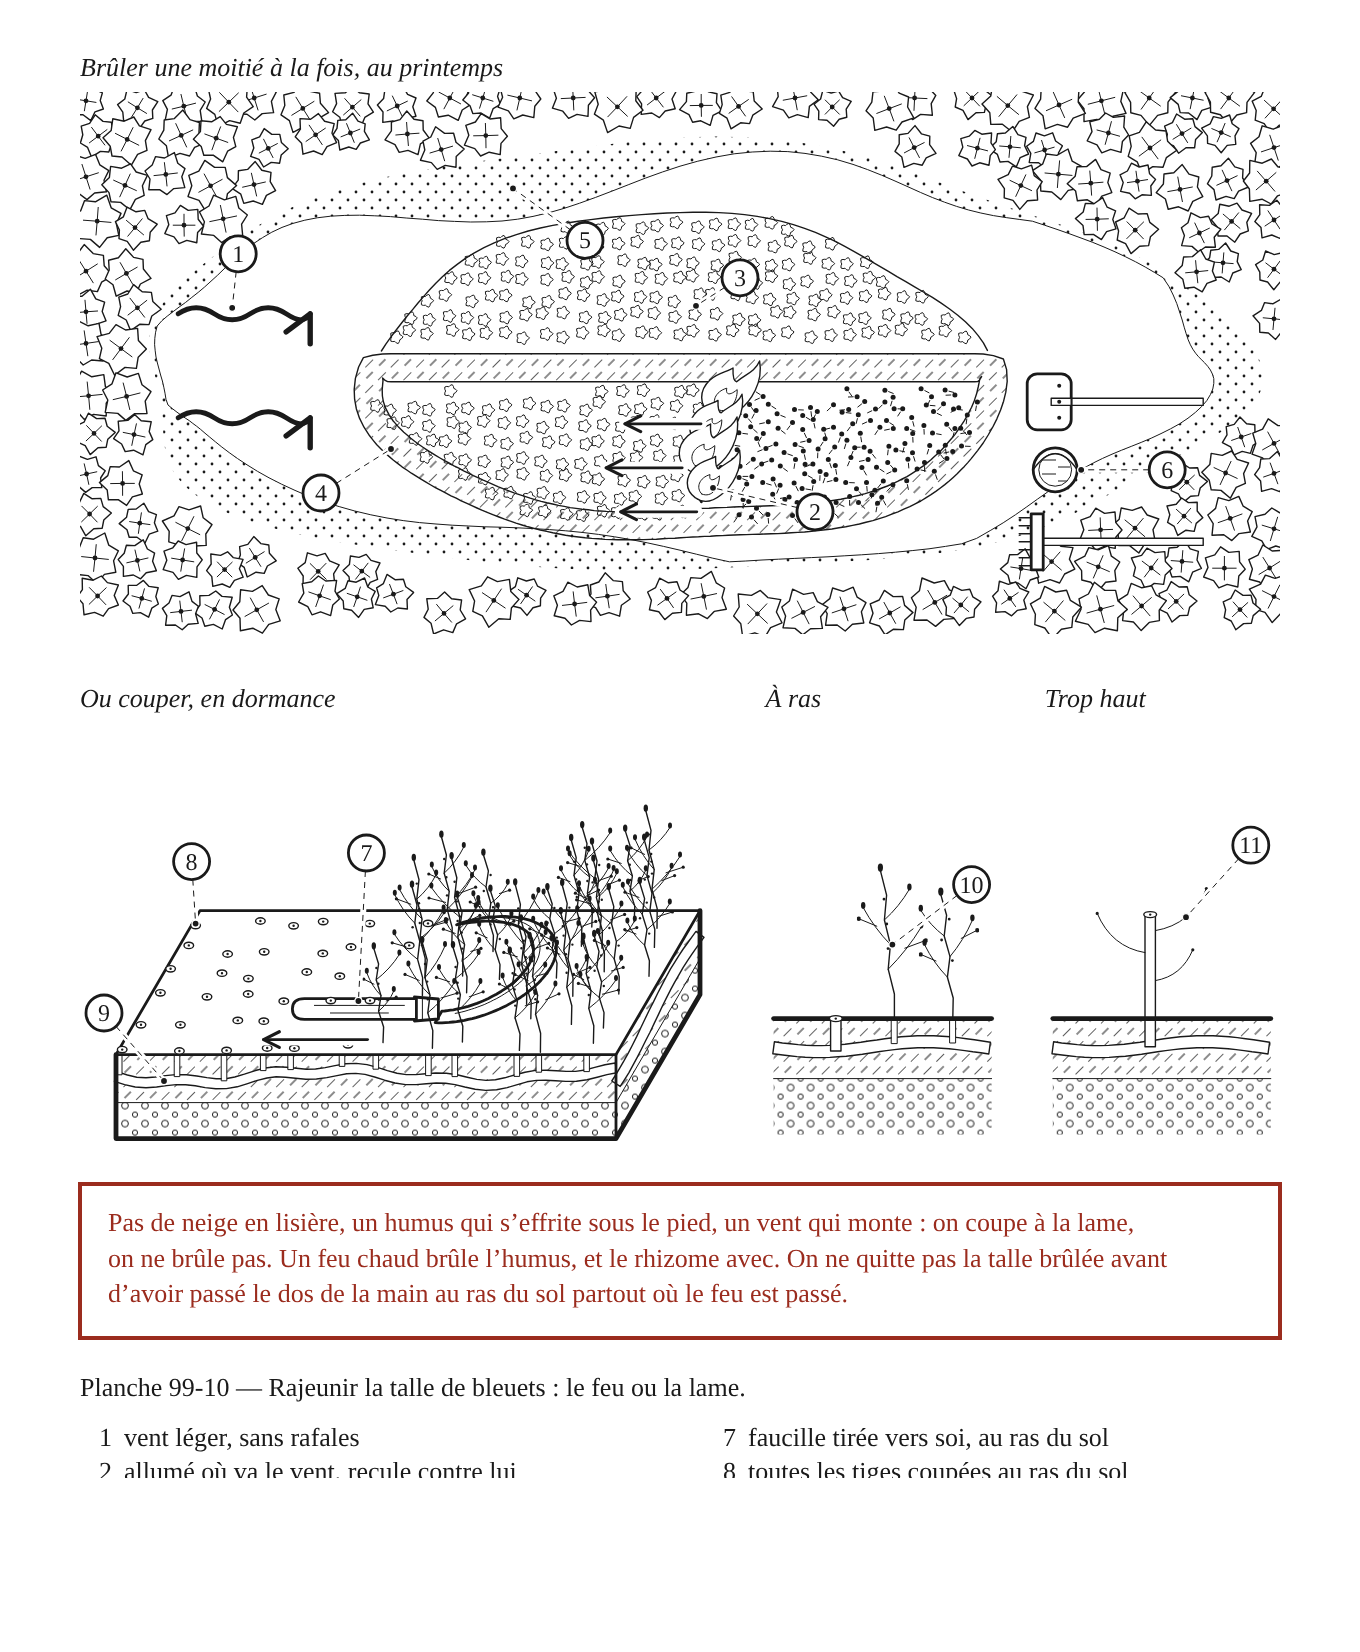
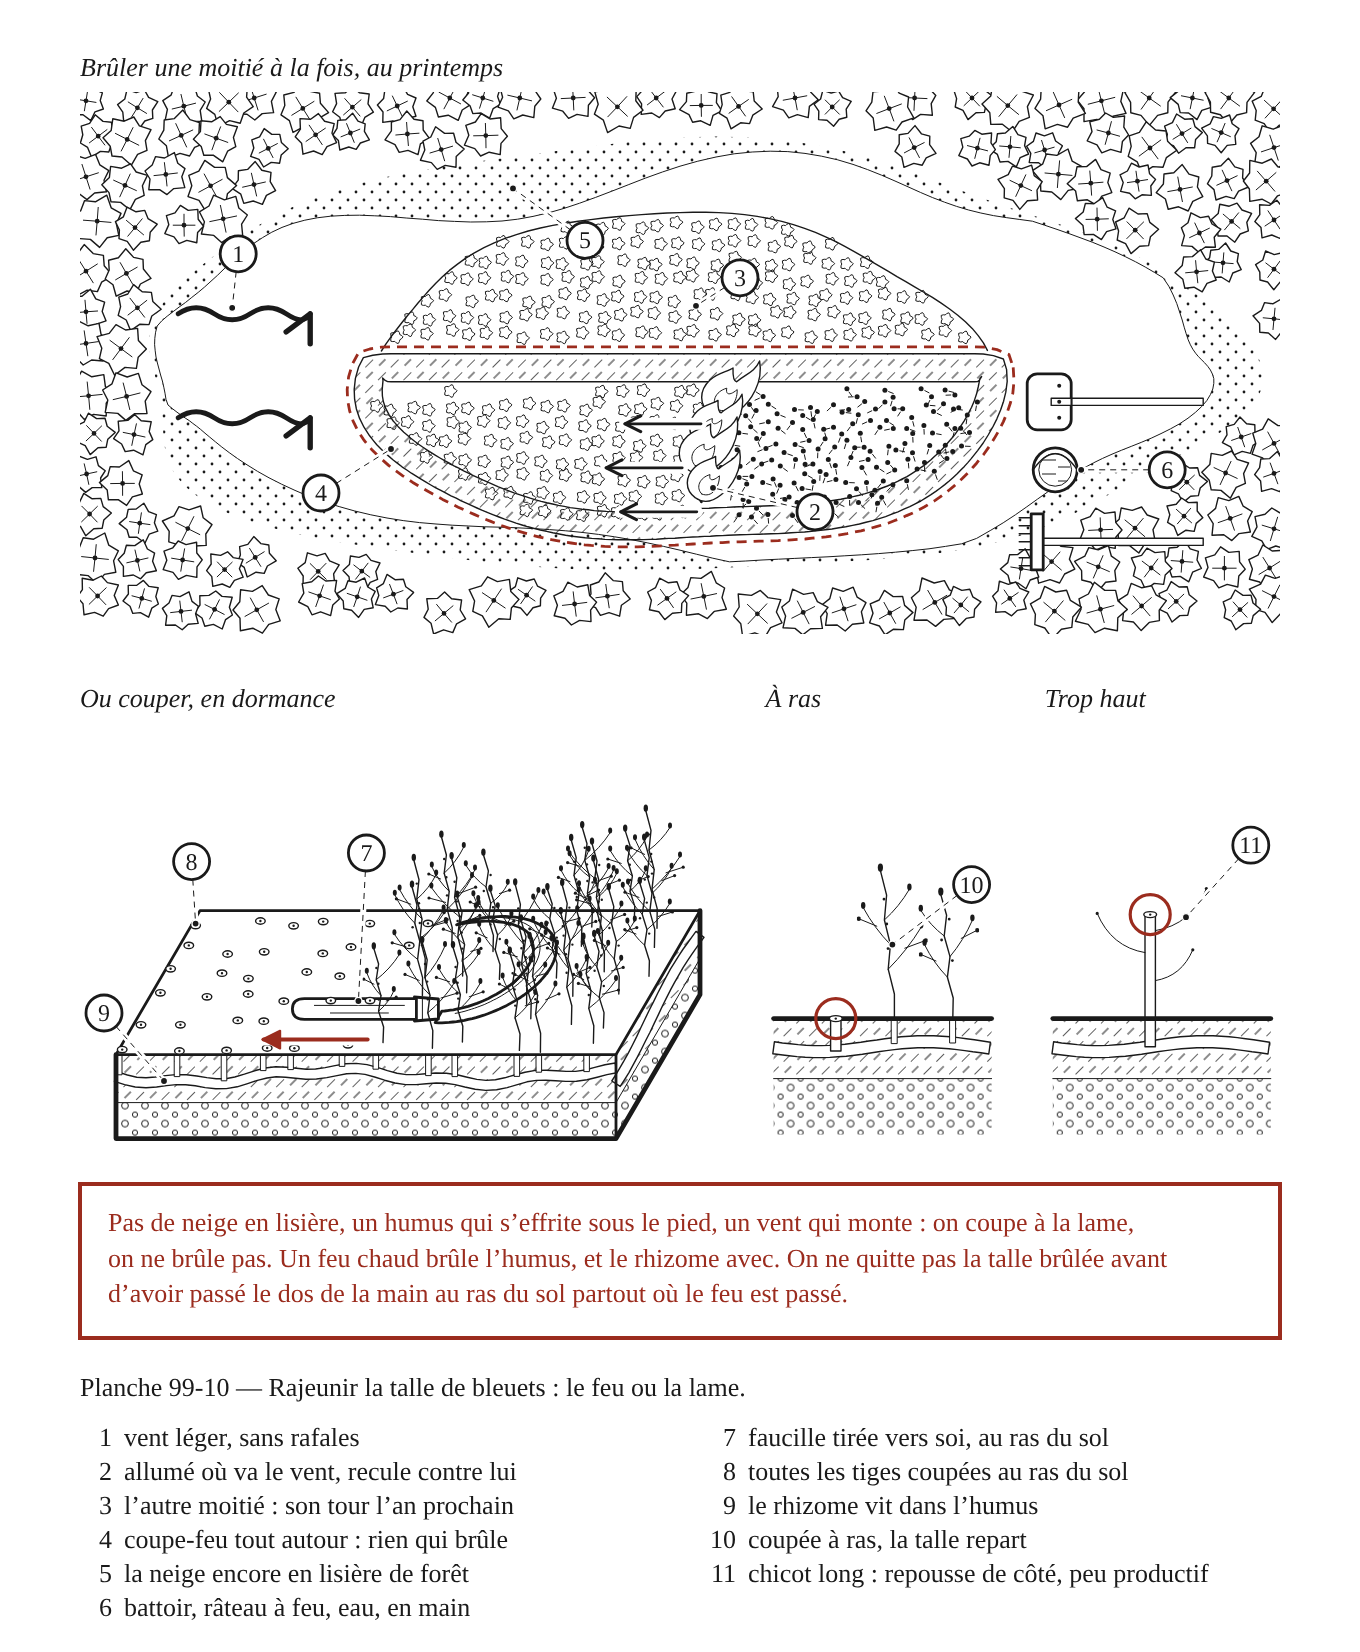
Charte et mains : travail en cours
Claude-Session: https://claude.ai/code/session_014xDY5FLxFXDJt3nYAYznSZ

diff --git a/images/planches-src/94-31.js b/images/planches-src/94-31.js
@@ -1,6 +1,10 @@
 // Planche 94-31 — l'auge au billot et les pierres chaudes (ch. 60, §9, « Faire bouillir sans casserole »).
 // Séquence : creuser aux braises, gratter le charbon entre deux passes, bouillir aux pierres.
 // Aucune cote : le chapitre ne donne aucune dimension d'auge. L'échelle, c'est le couteau.
+// La charte : la demi-bille au contour fort, son bout (la face de droite, lumière en haut à gauche)
+// à l'ombre. Le rouge : le raclage du couteau et la pierre qu'on plonge à la pince (les gestes), et
+// le niveau de sève contre le bord (le point à vérifier : il ne descend jamais). Le souffle, la
+// pierre refroidie qu'on ressort restent en noir.
 
 module.exports = (h) => {
   const r1 = (n) => Math.round(n * 10) / 10;
@@ -51,8 +55,12 @@ module.exports = (h) => {
       while (x < x1) { const l = 14 + 30 * R2(); seg.push(h.ligne(r1(x), r1(y), r1(Math.min(x + l, x1)), r1(y), h.a.detail)); x += l + 6 + 10 * R2(); }
       return seg.join('\n');
     });
+    const tour = [P(0, 0), P(0, 1), P(L, 1), ...arc(L, 1, ts), ...arc(0, ts, 0)];
     const svg = [
-      h.chemin([P(0, 0), P(0, 1), P(L, 1), ...arc(L, 1, ts), ...arc(0, ts, 0)], B(h.a.contour), true),
+      h.chemin(tour, h.a.blanc, true),
+      // le bout de la bille, la face de droite, à l'ombre
+      h.chemin([P(L, 0), P(L, 1), ...arc(L, 1, 0)], h.a.ombre, true),
+      h.chemin(tour, h.a.contour, true),
       h.ligne(...P(0, 0), ...P(L, 0), h.a.arete),
       h.chemin(arc(L, ts, 0), h.a.arete),
       h.chemin(arc(L, 0, 1, 0.9), h.a.detail),
@@ -136,7 +144,7 @@ module.exports = (h) => {
       ...eclats,
       couteau(tip[0], tip[1], -0.62, 72, 62),
       // sens du raclage : parallèle à la lame, vers la zone grattée
-      h.fleche(`M${r1(tip[0] + 70)},${r1(tip[1] - 92)} L${r1(tip[0] + 70 - 40 * Math.cos(0.62))},${r1(tip[1] - 92 + 40 * Math.sin(0.62))}`, h.a.arete),
+      h.geste(`M${r1(tip[0] + 70)},${r1(tip[1] - 92)} L${r1(tip[0] + 70 - 40 * Math.cos(0.62))},${r1(tip[1] - 92 + 40 * Math.sin(0.62))}`),
     ].join('\n');
   };
 
@@ -195,7 +203,9 @@ module.exports = (h) => {
       h.ellipse(r1(pB[0]), r1(pB[1] + 4), 20, 4.5, h.a.detail),
       pinceSvg, noeud(0.34, 1), noeud(0.55, -1),
       // la pierre descend : flèche parallèle à la pince, dégagée de sa branche du dessus
-      h.fleche(`M${r1(pB[0] - 66)},${r1(pB[1] - 117)} L${r1(pB[0] - 18)},${r1(pB[1] - 74)}`, h.a.arete),
+      h.geste(`M${r1(pB[0] - 66)},${r1(pB[1] - 117)} L${r1(pB[0] - 18)},${r1(pB[1] - 74)}`),
+      // le point à vérifier : le niveau tenu haut contre le bord
+      h.controle(...bl.P(cu + 60, 0.24, 6), 11),
       // pierre refroidie, ressortie
       pierre(C.xa + C.L + C.ox + 34, g - 12, 17, 12, 65),
       h.fleche(`M${r1(bl.P(C.L - 10, 0.9)[0])},${r1(bl.P(C.L - 10, 0.9)[1] - 16)} Q${r1(C.xa + C.L + C.ox + 40)},${r1(yf - 96)} ${r1(C.xa + C.L + C.ox + 36)},${r1(g - 34)}`, h.a.cache),

diff --git a/images/planches-src/99-10.js b/images/planches-src/99-10.js
@@ -144,6 +144,8 @@ module.exports = (h) => {
     const ext = decale(g.moitieA, BANDE), int = decale(g.moitieA, -BANDE);
     o.push(`<path d="${pd(ext, true)} ${pd(int.slice().reverse(), true)}" ${A.hachure('terre', 'aucun')} fill-rule="evenodd"/>`);
     o.push(`<path d="${pd(ext, true)}" ${A.detail}/>`, `<path d="${pd(int, true)}" ${A.detail}/>`);
+    // charte : la zone qui brûle, en tireté rouge, sur le bord extérieur du coupe-feu
+    o.push(`<path d="${pd(decale(g.moitieA, BANDE + 3.5), true)}" ${A.zone}/>`);
     // le front de flammes : des langues couchées vers où va le vent, sur une ligne de feu
     const yA0 = yDiv + BANDE + 6, bas = Math.max(...int.map(p => p[1])) - 4;
     const ligne = [];
@@ -334,7 +336,7 @@ module.exports = (h) => {
     // le geste : on tire vers soi
     const f0 = P(FU - 26, FV - 13, 1), f1 = P(FU - 78, FV - 13, 1);
     o.push(`<path d="M${r1(f0[0])} ${r1(f0[1])} L${r1(f1[0])} ${r1(f1[1])}" fill="none" stroke="${BLANC}" stroke-width="6" stroke-linecap="round"/>`);
-    o.push(h.fleche(`M${r1(f0[0])} ${r1(f0[1])} L${r1(f1[0])} ${r1(f1[1])}`, A.arete));
+    o.push(h.geste(`M${r1(f0[0])} ${r1(f0[1])} L${r1(f1[0])} ${r1(f1[1])}`));        // charte : le geste en rouge
     return o.join('\n');
   };
   const renvoisBloc = z => {
@@ -376,6 +378,7 @@ module.exports = (h) => {
     for (const p of pousses) { o.push(h.rect(p.x - 1.4, s.yg, 2.8, s.yRz(p.x) - s.yg, bF)); o.push(p.t.svg); }
     o.push(h.ligne(4, s.yg, z.l - 4, s.yg, A.contour));
     o.push(h.ellipse(xc, s.yg, 3.2, 1.5, bD), point([xc, s.yg], 0.6));
+    o.push(h.controle(xc, s.yg, 10));                    // charte : le point à vérifier, la coupe à ras
     return o.join('\n');
   };
   const HC = 52;
@@ -395,6 +398,7 @@ module.exports = (h) => {
     // les pousses de côté : grêles, courtes, qui partent du flanc et se redressent
     for (const p of pousses) o.push(`<path d="M${r1(p.x0)} ${r1(p.y)} Q${r1(p.p1[0])} ${r1(p.p1[1])} ${r1(p.p2[0])} ${r1(p.p2[1])}" ${A.fin}/>`, point(p.p2, 0.8));
     o.push(h.ligne(4, s.yg, z.l - 4, s.yg, A.contour));
+    o.push(h.controle(xc, s.yg - HC, 10));               // charte : là où ça rate, la coupe trop haute
     return o.join('\n');
   };
 
